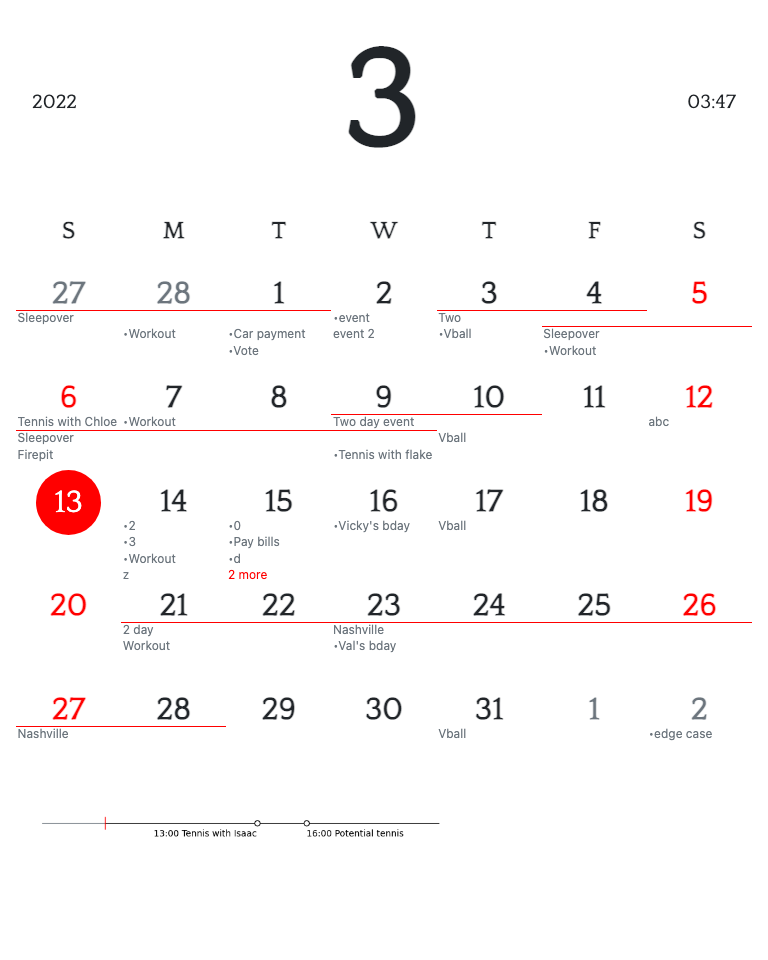
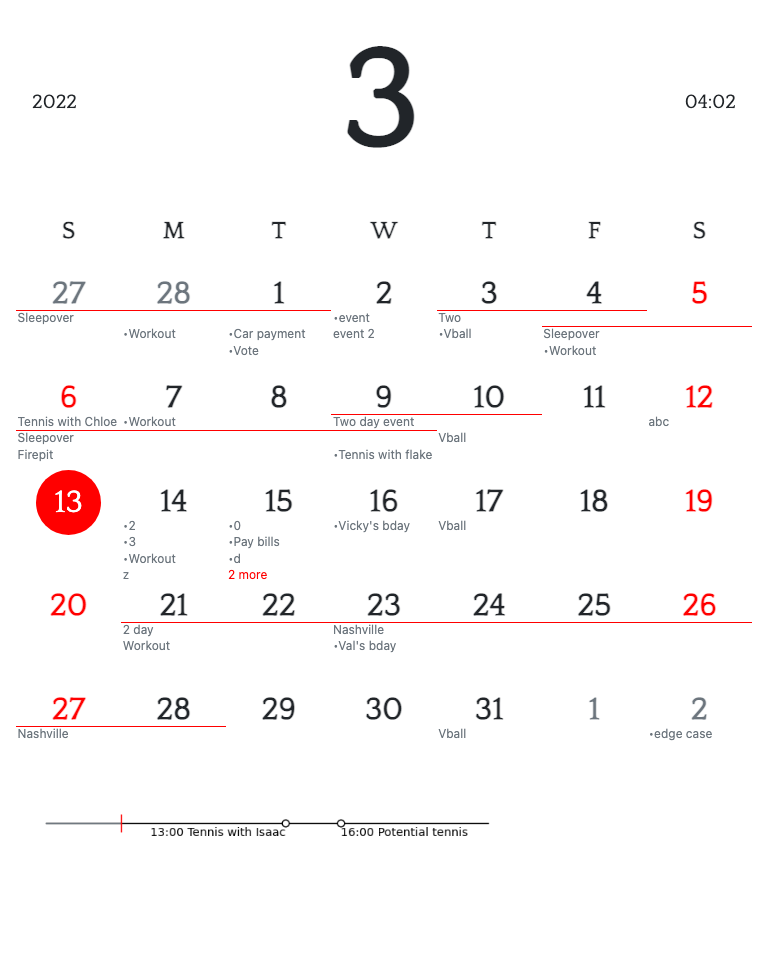
adjust timeline dpi to resize to larger display. WIP

diff --git a/render/calendar.html b/render/calendar.html
@@ -13,7 +13,7 @@
              style="display:flex;justify-content:space-between;">
             <div class="time-info">2022</div>
             <h3 class="month font-weight-bold mb-0 text-uppercase">3</h3>
-            <div class="time-info">03:47</div>
+            <div class="time-info">04:02</div>
         </div>
         <!-- Days of week -->
         <ol class="day-names list-unstyled text-center">
@@ -182,7 +182,7 @@
                 <div class="date text-muted">2</div>
                 <div class="event text-muted">•edge case</div>
             </li>
-</ol>
+        </ol>
         <div style="height:210px;margin-top:-5rem;position:absolute;">
             <img src="timeline.png" style='height: 100%; object-fit: cover'>
         </div>

diff --git a/render/timeline.py b/render/timeline.py
@@ -5,7 +5,7 @@ from adjustText import adjust_text
 
 # Constants
 GRAY = "#6c757d"
-TIMELINE_WIDTH = .75
+TIMELINE_WIDTH = 1
 RED_TICK_SIZE = 15
 USE_TIMELINE_WORDS = False  # Set to True if you want the number of days remaining to be displayed for multiday events
 
@@ -69,7 +69,7 @@ class Timeline:
     def render(self):
         # Create figure and plot a stem plot with the date
         # fig, ax = plt.subplots(figsize=(8.8, 4), constrained_layout=True)
-        fig, ax = plt.subplots(figsize=(8.8, 4), constrained_layout=False)
+        fig, ax = plt.subplots(figsize=(7.48, 3), constrained_layout=False, dpi=103)
 
         # Black line for the entire timeline
         ax.plot([0, 24 * 60], [0, 0], "-", color="k", linewidth=TIMELINE_WIDTH)
